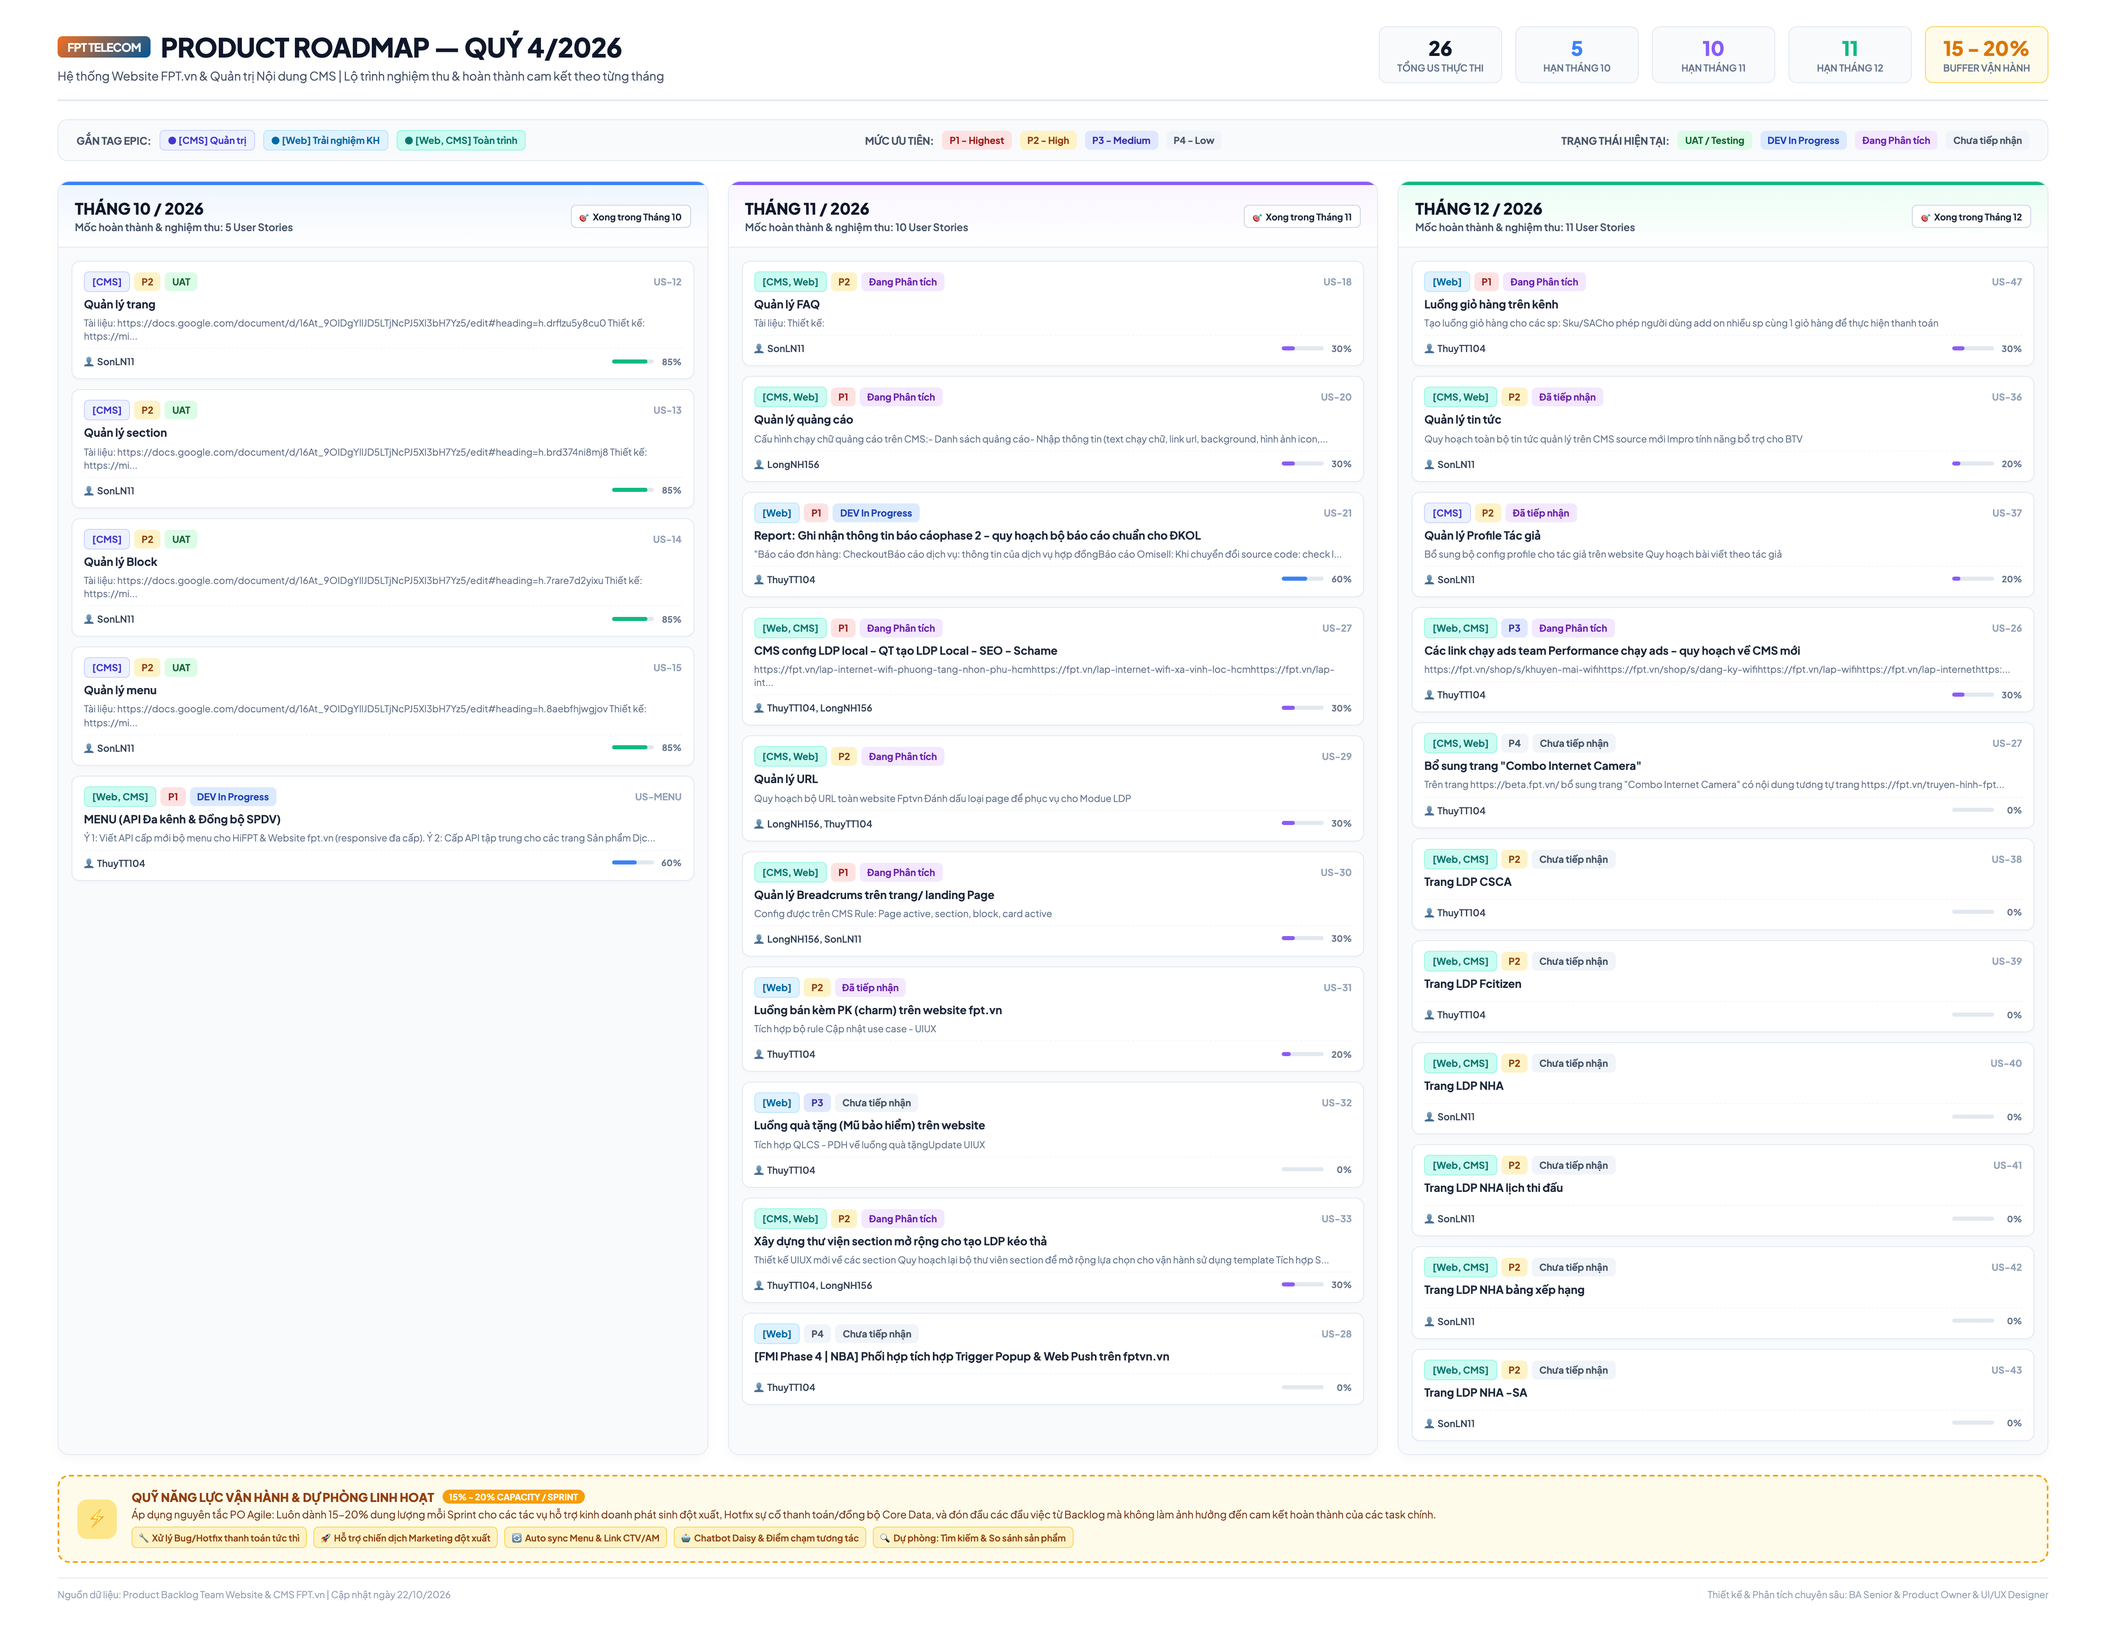
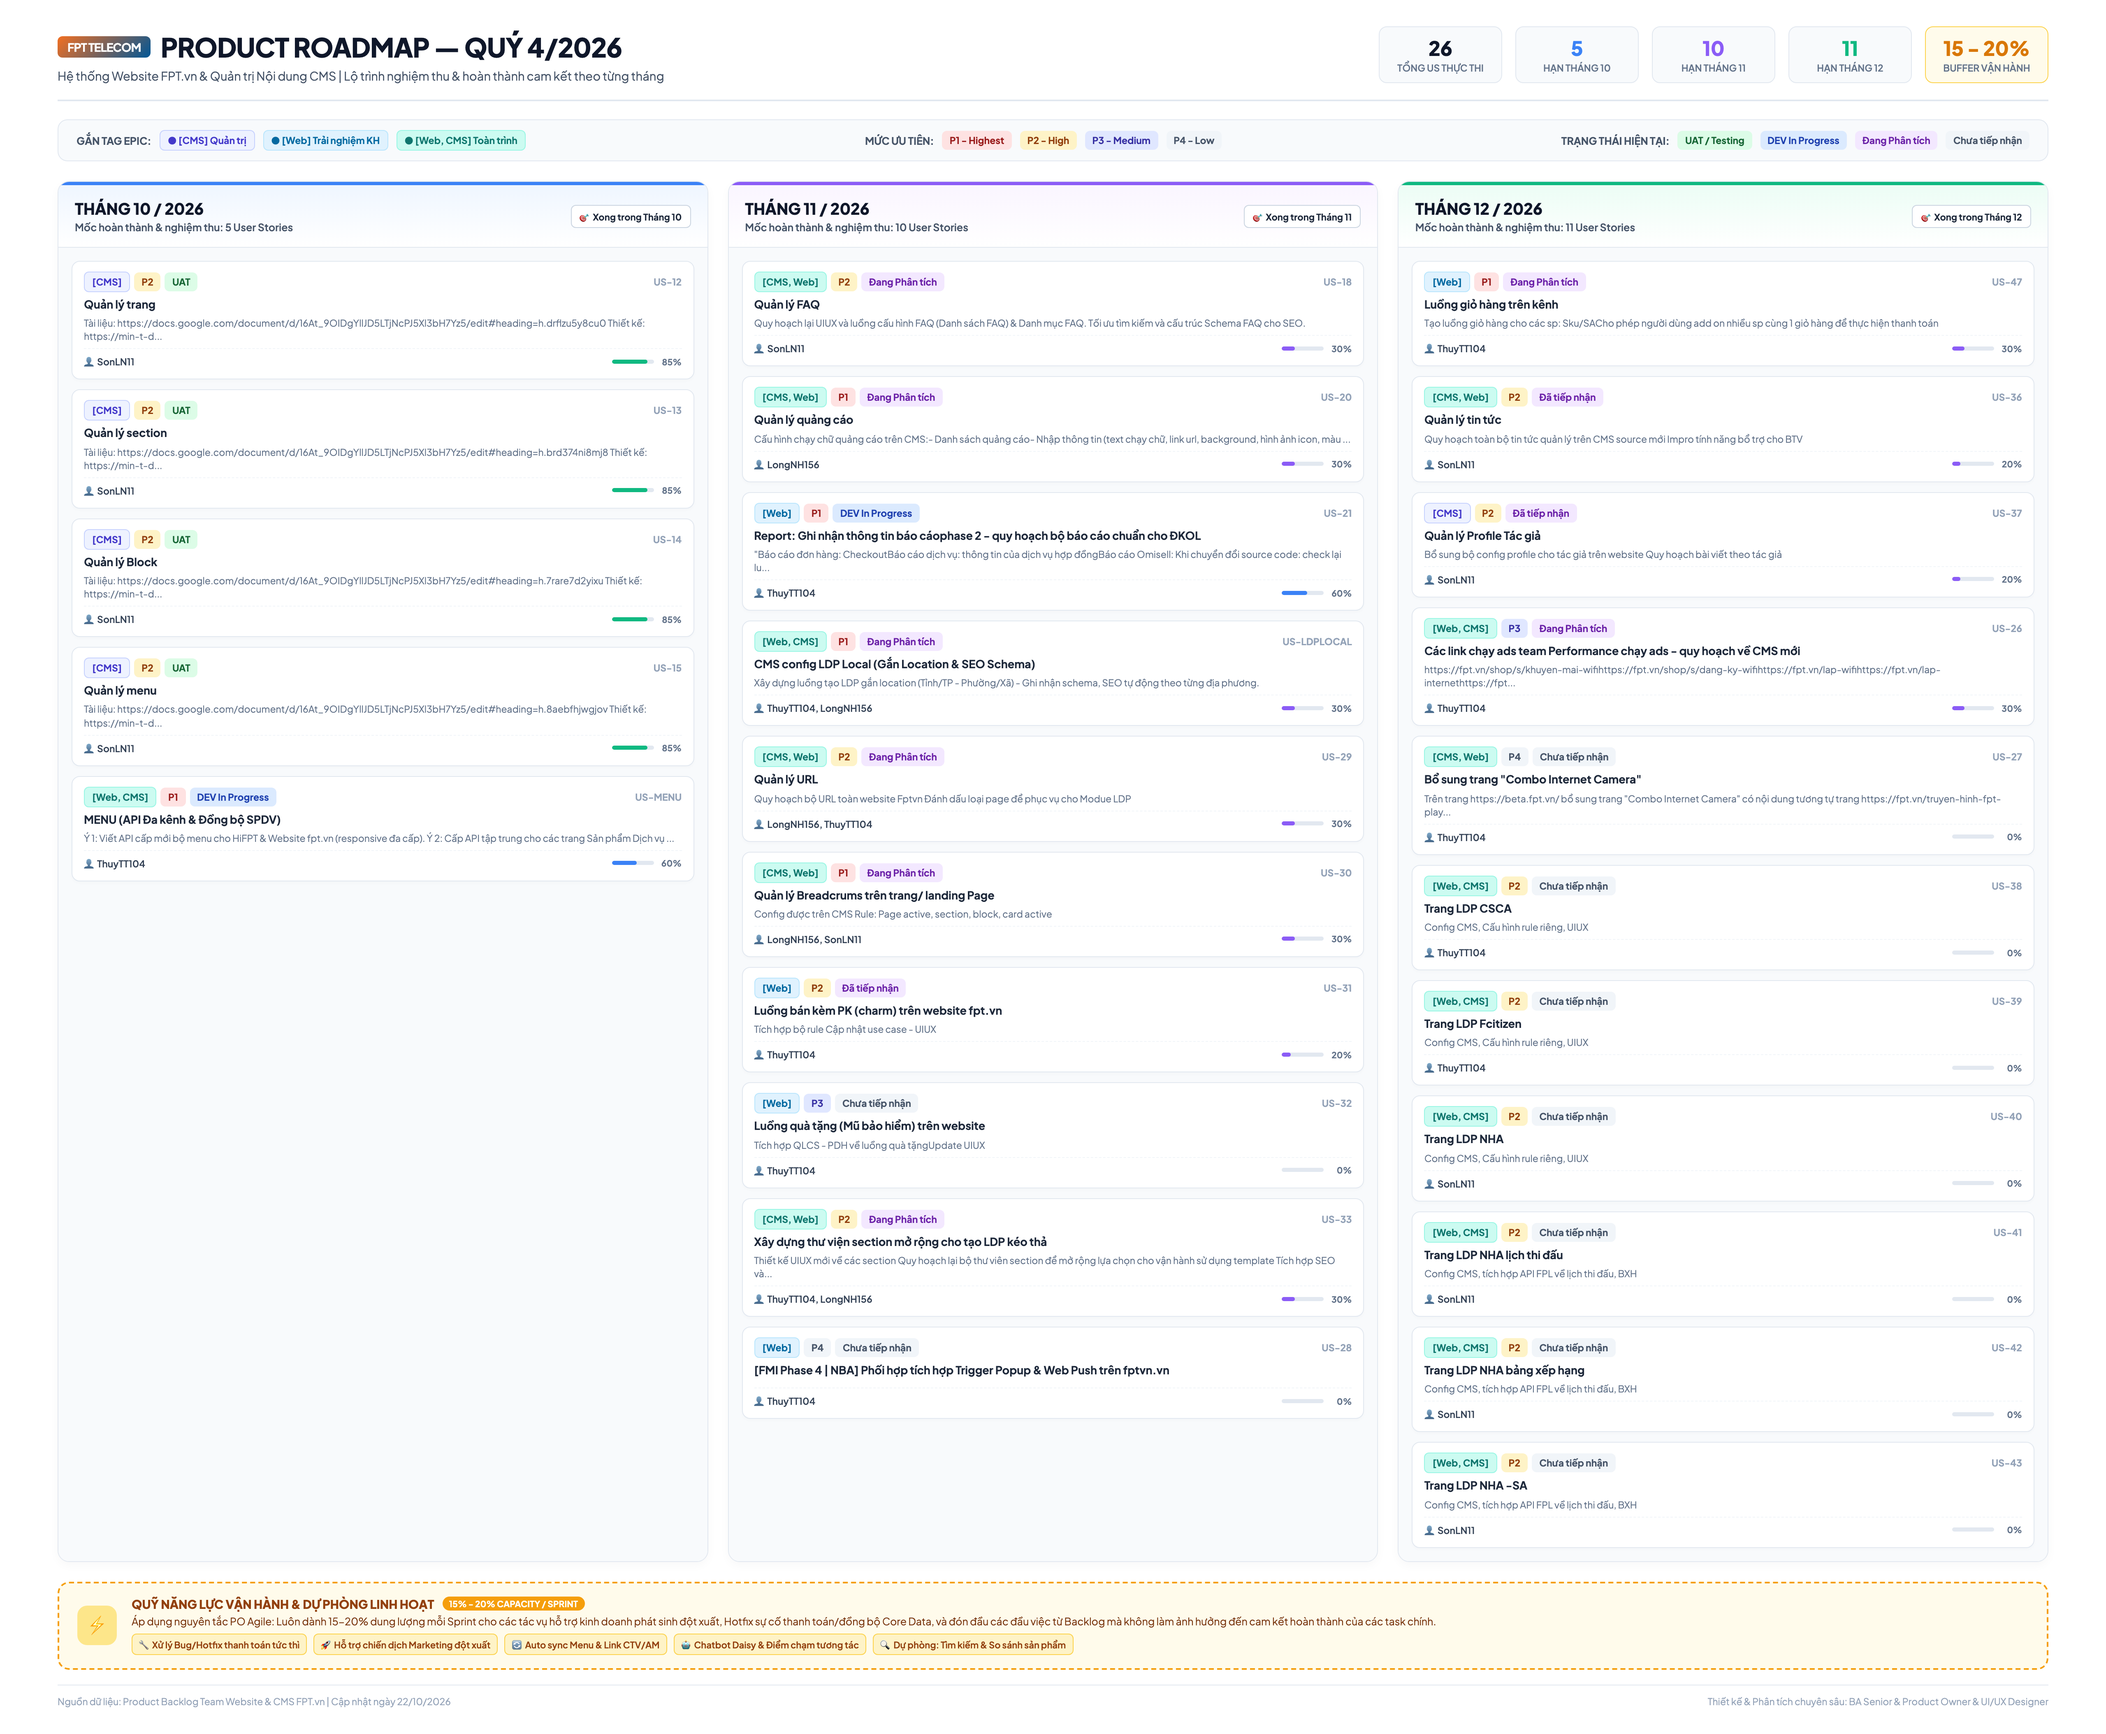
feat(roadmap): cap nhat mo ta chi tiet cho FAQ va CMS config LDP local gan location SEO

diff --git a/thuyttdoc/roadmap_q4_2026.html b/thuyttdoc/roadmap_q4_2026.html
@@ -16,7 +16,6 @@
     margin: 0 auto;
   }
 
-  /* Header Section */
   .roadmap-header {
     border-bottom: 2px solid #E2E8F0;
     padding-bottom: 20px;
@@ -68,7 +67,6 @@
   .metric-card .val { font-size: 24px; font-weight: 800; color: #1E293B; }
   .metric-card .lbl { font-size: 11.5px; color: #64748B; font-weight: 600; text-transform: uppercase; margin-top: 2px; }
 
-  /* Legend Bar */
   .legend-bar {
     display: flex;
     justify-content: space-between;
@@ -107,7 +105,6 @@
   .status-doc { background: #F3E8FF; color: #6B21A8; }
   .status-new { background: #F1F5F9; color: #475569; }
 
-  /* Roadmap Grid */
   .roadmap-grid {
     display: grid;
     grid-template-columns: repeat(3, 1fr);
@@ -194,7 +191,6 @@
   .progress-fill { height: 100%; border-radius: 3px; }
   .progress-text { font-size: 10.5px; font-weight: 700; color: #64748B; min-width: 26px; text-align: right; }
 
-  /* Buffer Section */
   .buffer-section {
     background: #FFFBEB;
     border: 2px dashed #F59E0B;
@@ -266,7 +262,6 @@
 </head>
 <body>
 
-  <!-- Header -->
   <div class="roadmap-header">
     <div class="header-left">
       <h1>
@@ -299,7 +294,6 @@
     </div>
   </div>
 
-  <!-- Legend Bar -->
   <div class="legend-bar">
     <div class="legend-group">
       <span class="legend-title">Gắn Tag EPIC:</span>
@@ -323,7 +317,6 @@
     </div>
   </div>
 
-  <!-- 3 Months Columns -->
   <div class="roadmap-grid">
 
     <!-- CỘT THÁNG 10 -->
@@ -347,7 +340,7 @@
             <span class="card-id">US-12</span>
           </div>
           <div class="card-title">Quản lý trang</div>
-          <div class="card-desc">Tài liệu: https://docs.google.com/document/d/16At_9OIDgYllJD5LTjNcPJ5Xl3bH7Yz5/edit#heading=h.drflzu5y8cu0 Thiết kế: https://mi...</div>
+          <div class="card-desc">Tài liệu: https://docs.google.com/document/d/16At_9OIDgYllJD5LTjNcPJ5Xl3bH7Yz5/edit#heading=h.drflzu5y8cu0 Thiết kế: https://min-t-d...</div>
           <div class="card-bottom">
             <span class="pic-badge">👤 SonLN11</span>
             <div class="progress-wrap">
@@ -367,7 +360,7 @@
             <span class="card-id">US-13</span>
           </div>
           <div class="card-title">Quản lý section</div>
-          <div class="card-desc">Tài liệu: https://docs.google.com/document/d/16At_9OIDgYllJD5LTjNcPJ5Xl3bH7Yz5/edit#heading=h.brd374ni8mj8 Thiết kế: https://mi...</div>
+          <div class="card-desc">Tài liệu: https://docs.google.com/document/d/16At_9OIDgYllJD5LTjNcPJ5Xl3bH7Yz5/edit#heading=h.brd374ni8mj8 Thiết kế: https://min-t-d...</div>
           <div class="card-bottom">
             <span class="pic-badge">👤 SonLN11</span>
             <div class="progress-wrap">
@@ -387,7 +380,7 @@
             <span class="card-id">US-14</span>
           </div>
           <div class="card-title">Quản lý Block</div>
-          <div class="card-desc">Tài liệu: https://docs.google.com/document/d/16At_9OIDgYllJD5LTjNcPJ5Xl3bH7Yz5/edit#heading=h.7rare7d2yixu Thiết kế: https://mi...</div>
+          <div class="card-desc">Tài liệu: https://docs.google.com/document/d/16At_9OIDgYllJD5LTjNcPJ5Xl3bH7Yz5/edit#heading=h.7rare7d2yixu Thiết kế: https://min-t-d...</div>
           <div class="card-bottom">
             <span class="pic-badge">👤 SonLN11</span>
             <div class="progress-wrap">
@@ -407,7 +400,7 @@
             <span class="card-id">US-15</span>
           </div>
           <div class="card-title">Quản lý menu</div>
-          <div class="card-desc">Tài liệu: https://docs.google.com/document/d/16At_9OIDgYllJD5LTjNcPJ5Xl3bH7Yz5/edit#heading=h.8aebfhjwgjov Thiết kế: https://mi...</div>
+          <div class="card-desc">Tài liệu: https://docs.google.com/document/d/16At_9OIDgYllJD5LTjNcPJ5Xl3bH7Yz5/edit#heading=h.8aebfhjwgjov Thiết kế: https://min-t-d...</div>
           <div class="card-bottom">
             <span class="pic-badge">👤 SonLN11</span>
             <div class="progress-wrap">
@@ -427,7 +420,7 @@
             <span class="card-id">US-MENU</span>
           </div>
           <div class="card-title">MENU (API Đa kênh & Đồng bộ SPDV)</div>
-          <div class="card-desc">Ý 1: Viết API cấp mới bộ menu cho HiFPT & Website fpt.vn (responsive đa cấp). Ý 2: Cấp API tập trung cho các trang Sản phẩm Dịc...</div>
+          <div class="card-desc">Ý 1: Viết API cấp mới bộ menu cho HiFPT & Website fpt.vn (responsive đa cấp). Ý 2: Cấp API tập trung cho các trang Sản phẩm Dịch vụ ...</div>
           <div class="card-bottom">
             <span class="pic-badge">👤 ThuyTT104</span>
             <div class="progress-wrap">
@@ -461,7 +454,7 @@
             <span class="card-id">US-18</span>
           </div>
           <div class="card-title">Quản lý FAQ</div>
-          <div class="card-desc">Tài liệu: Thiết kế:</div>
+          <div class="card-desc">Quy hoạch lại UIUX và luồng cấu hình FAQ (Danh sách FAQ) & Danh mục FAQ. Tối ưu tìm kiếm và cấu trúc Schema FAQ cho SEO.</div>
           <div class="card-bottom">
             <span class="pic-badge">👤 SonLN11</span>
             <div class="progress-wrap">
@@ -481,7 +474,7 @@
             <span class="card-id">US-20</span>
           </div>
           <div class="card-title">Quản lý quảng cáo</div>
-          <div class="card-desc">Cấu hình chạy chữ quảng cáo trên CMS:- Danh sách quảng cáo- Nhập thông tin (text chạy chữ, link url, background, hình ảnh icon,...</div>
+          <div class="card-desc">Cấu hình chạy chữ quảng cáo trên CMS:- Danh sách quảng cáo- Nhập thông tin (text chạy chữ, link url, background, hình ảnh icon, màu ...</div>
           <div class="card-bottom">
             <span class="pic-badge">👤 LongNH156</span>
             <div class="progress-wrap">
@@ -501,7 +494,7 @@
             <span class="card-id">US-21</span>
           </div>
           <div class="card-title">Report: Ghi nhận thông tin báo cáophase 2 - quy hoạch bộ báo cáo chuẩn cho ĐKOL</div>
-          <div class="card-desc">"Báo cáo đơn hàng: CheckoutBáo cáo dịch vụ:  thông tin của dịch vụ hợp đồngBáo cáo Omisell: Khi chuyển đổi source code: check l...</div>
+          <div class="card-desc">"Báo cáo đơn hàng: CheckoutBáo cáo dịch vụ:  thông tin của dịch vụ hợp đồngBáo cáo Omisell: Khi chuyển đổi source code: check lại lu...</div>
           <div class="card-bottom">
             <span class="pic-badge">👤 ThuyTT104</span>
             <div class="progress-wrap">
@@ -518,10 +511,10 @@
               <span class="badge prio-p1">P1</span>
               <span class="badge status-doc">Đang Phân tích</span>
             </div>
-            <span class="card-id">US-27</span>
+            <span class="card-id">US-LDPLOCAL</span>
           </div>
-          <div class="card-title">CMS config  LDP local - QT tạo LDP Local - SEO - Schame</div>
-          <div class="card-desc">https://fpt.vn/lap-internet-wifi-phuong-tang-nhon-phu-hcmhttps://fpt.vn/lap-internet-wifi-xa-vinh-loc-hcmhttps://fpt.vn/lap-int...</div>
+          <div class="card-title">CMS config LDP Local (Gắn Location & SEO Schema)</div>
+          <div class="card-desc">Xây dựng luồng tạo LDP gắn location (Tỉnh/TP - Phường/Xã) - Ghi nhận schema, SEO tự động theo từng địa phương.</div>
           <div class="card-bottom">
             <span class="pic-badge">👤 ThuyTT104, LongNH156</span>
             <div class="progress-wrap">
@@ -621,7 +614,7 @@
             <span class="card-id">US-33</span>
           </div>
           <div class="card-title">Xây dựng thư viện section mở rộng cho tạo LDP kéo thả</div>
-          <div class="card-desc">Thiết kế UIUX mới về các section Quy hoạch lại bộ thư viên section để mở rộng lựa chọn cho vận hành sử dụng template Tích hợp S...</div>
+          <div class="card-desc">Thiết kế UIUX mới về các section Quy hoạch lại bộ thư viên section để mở rộng lựa chọn cho vận hành sử dụng template Tích hợp SEO và...</div>
           <div class="card-bottom">
             <span class="pic-badge">👤 ThuyTT104, LongNH156</span>
             <div class="progress-wrap">
@@ -735,7 +728,7 @@
             <span class="card-id">US-26</span>
           </div>
           <div class="card-title">Các link chạy ads team Performance chạy ads - quy hoạch về CMS mới</div>
-          <div class="card-desc">https://fpt.vn/shop/s/khuyen-mai-wifihttps://fpt.vn/shop/s/dang-ky-wifihttps://fpt.vn/lap-wifihttps://fpt.vn/lap-internethttps:...</div>
+          <div class="card-desc">https://fpt.vn/shop/s/khuyen-mai-wifihttps://fpt.vn/shop/s/dang-ky-wifihttps://fpt.vn/lap-wifihttps://fpt.vn/lap-internethttps://fpt...</div>
           <div class="card-bottom">
             <span class="pic-badge">👤 ThuyTT104</span>
             <div class="progress-wrap">
@@ -755,7 +748,7 @@
             <span class="card-id">US-27</span>
           </div>
           <div class="card-title">Bổ sung trang "Combo Internet Camera"</div>
-          <div class="card-desc">Trên trang https://beta.fpt.vn/ bổ sung trang "Combo Internet Camera" có nội dung tương tự trang https://fpt.vn/truyen-hinh-fpt...</div>
+          <div class="card-desc">Trên trang https://beta.fpt.vn/ bổ sung trang "Combo Internet Camera" có nội dung tương tự trang https://fpt.vn/truyen-hinh-fpt-play...</div>
           <div class="card-bottom">
             <span class="pic-badge">👤 ThuyTT104</span>
             <div class="progress-wrap">
@@ -775,7 +768,7 @@
             <span class="card-id">US-38</span>
           </div>
           <div class="card-title">Trang LDP CSCA</div>
-          <div class="card-desc"></div>
+          <div class="card-desc">Config CMS, Cấu hình rule riêng, UIUX</div>
           <div class="card-bottom">
             <span class="pic-badge">👤 ThuyTT104</span>
             <div class="progress-wrap">
@@ -795,7 +788,7 @@
             <span class="card-id">US-39</span>
           </div>
           <div class="card-title">Trang LDP Fcitizen</div>
-          <div class="card-desc"></div>
+          <div class="card-desc">Config CMS, Cấu hình rule riêng, UIUX</div>
           <div class="card-bottom">
             <span class="pic-badge">👤 ThuyTT104</span>
             <div class="progress-wrap">
@@ -815,7 +808,7 @@
             <span class="card-id">US-40</span>
           </div>
           <div class="card-title">Trang LDP NHA</div>
-          <div class="card-desc"></div>
+          <div class="card-desc">Config CMS, Cấu hình rule riêng, UIUX</div>
           <div class="card-bottom">
             <span class="pic-badge">👤 SonLN11</span>
             <div class="progress-wrap">
@@ -835,7 +828,7 @@
             <span class="card-id">US-41</span>
           </div>
           <div class="card-title">Trang LDP NHA lịch thi đấu</div>
-          <div class="card-desc"></div>
+          <div class="card-desc">Config CMS, tích hợp API FPL về lịch thi đấu, BXH</div>
           <div class="card-bottom">
             <span class="pic-badge">👤 SonLN11</span>
             <div class="progress-wrap">
@@ -855,7 +848,7 @@
             <span class="card-id">US-42</span>
           </div>
           <div class="card-title">Trang LDP NHA bảng xếp hạng</div>
-          <div class="card-desc"></div>
+          <div class="card-desc">Config CMS, tích hợp API FPL về lịch thi đấu, BXH</div>
           <div class="card-bottom">
             <span class="pic-badge">👤 SonLN11</span>
             <div class="progress-wrap">
@@ -875,7 +868,7 @@
             <span class="card-id">US-43</span>
           </div>
           <div class="card-title">Trang LDP NHA -SA</div>
-          <div class="card-desc"></div>
+          <div class="card-desc">Config CMS, tích hợp API FPL về lịch thi đấu, BXH</div>
           <div class="card-bottom">
             <span class="pic-badge">👤 SonLN11</span>
             <div class="progress-wrap">
@@ -890,7 +883,6 @@
 
   </div>
 
-  <!-- Operational Buffer Banner -->
   <div class="buffer-section">
     <div class="buffer-icon-wrap">⚡</div>
     <div class="buffer-content">
@@ -911,7 +903,6 @@
     </div>
   </div>
 
-  <!-- Footer -->
   <div class="roadmap-footer">
     <div>Nguồn dữ liệu: Product Backlog Team Website & CMS FPT.vn | Cập nhật ngày 22/10/2026</div>
     <div>Thiết kế & Phân tích chuyên sâu: BA Senior & Product Owner & UI/UX Designer</div>
